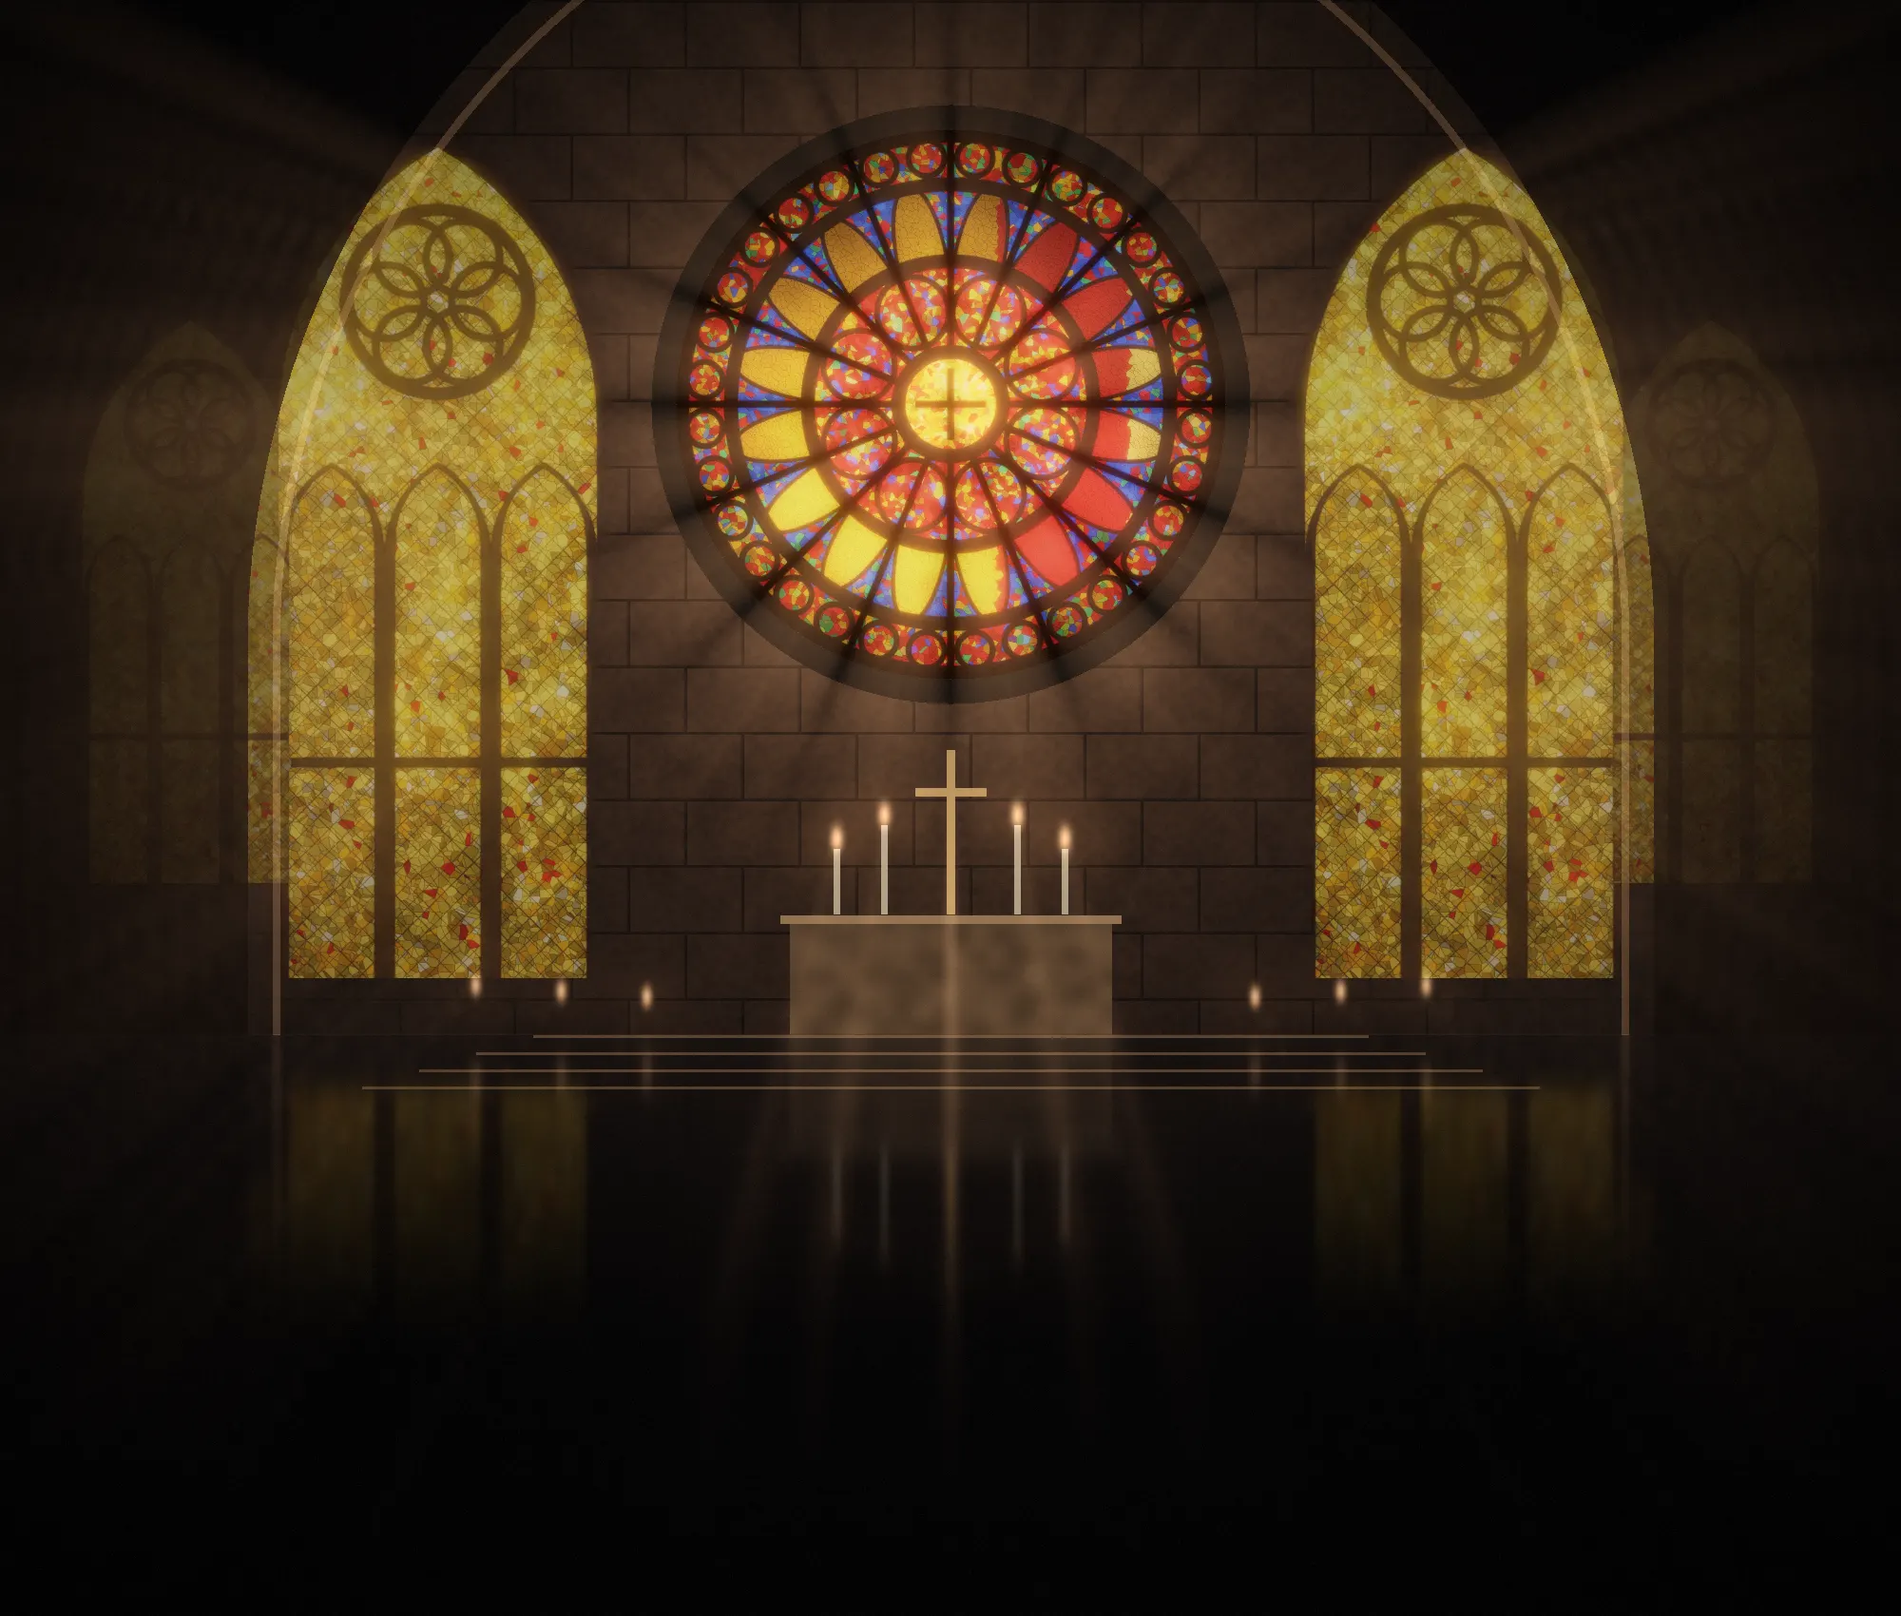
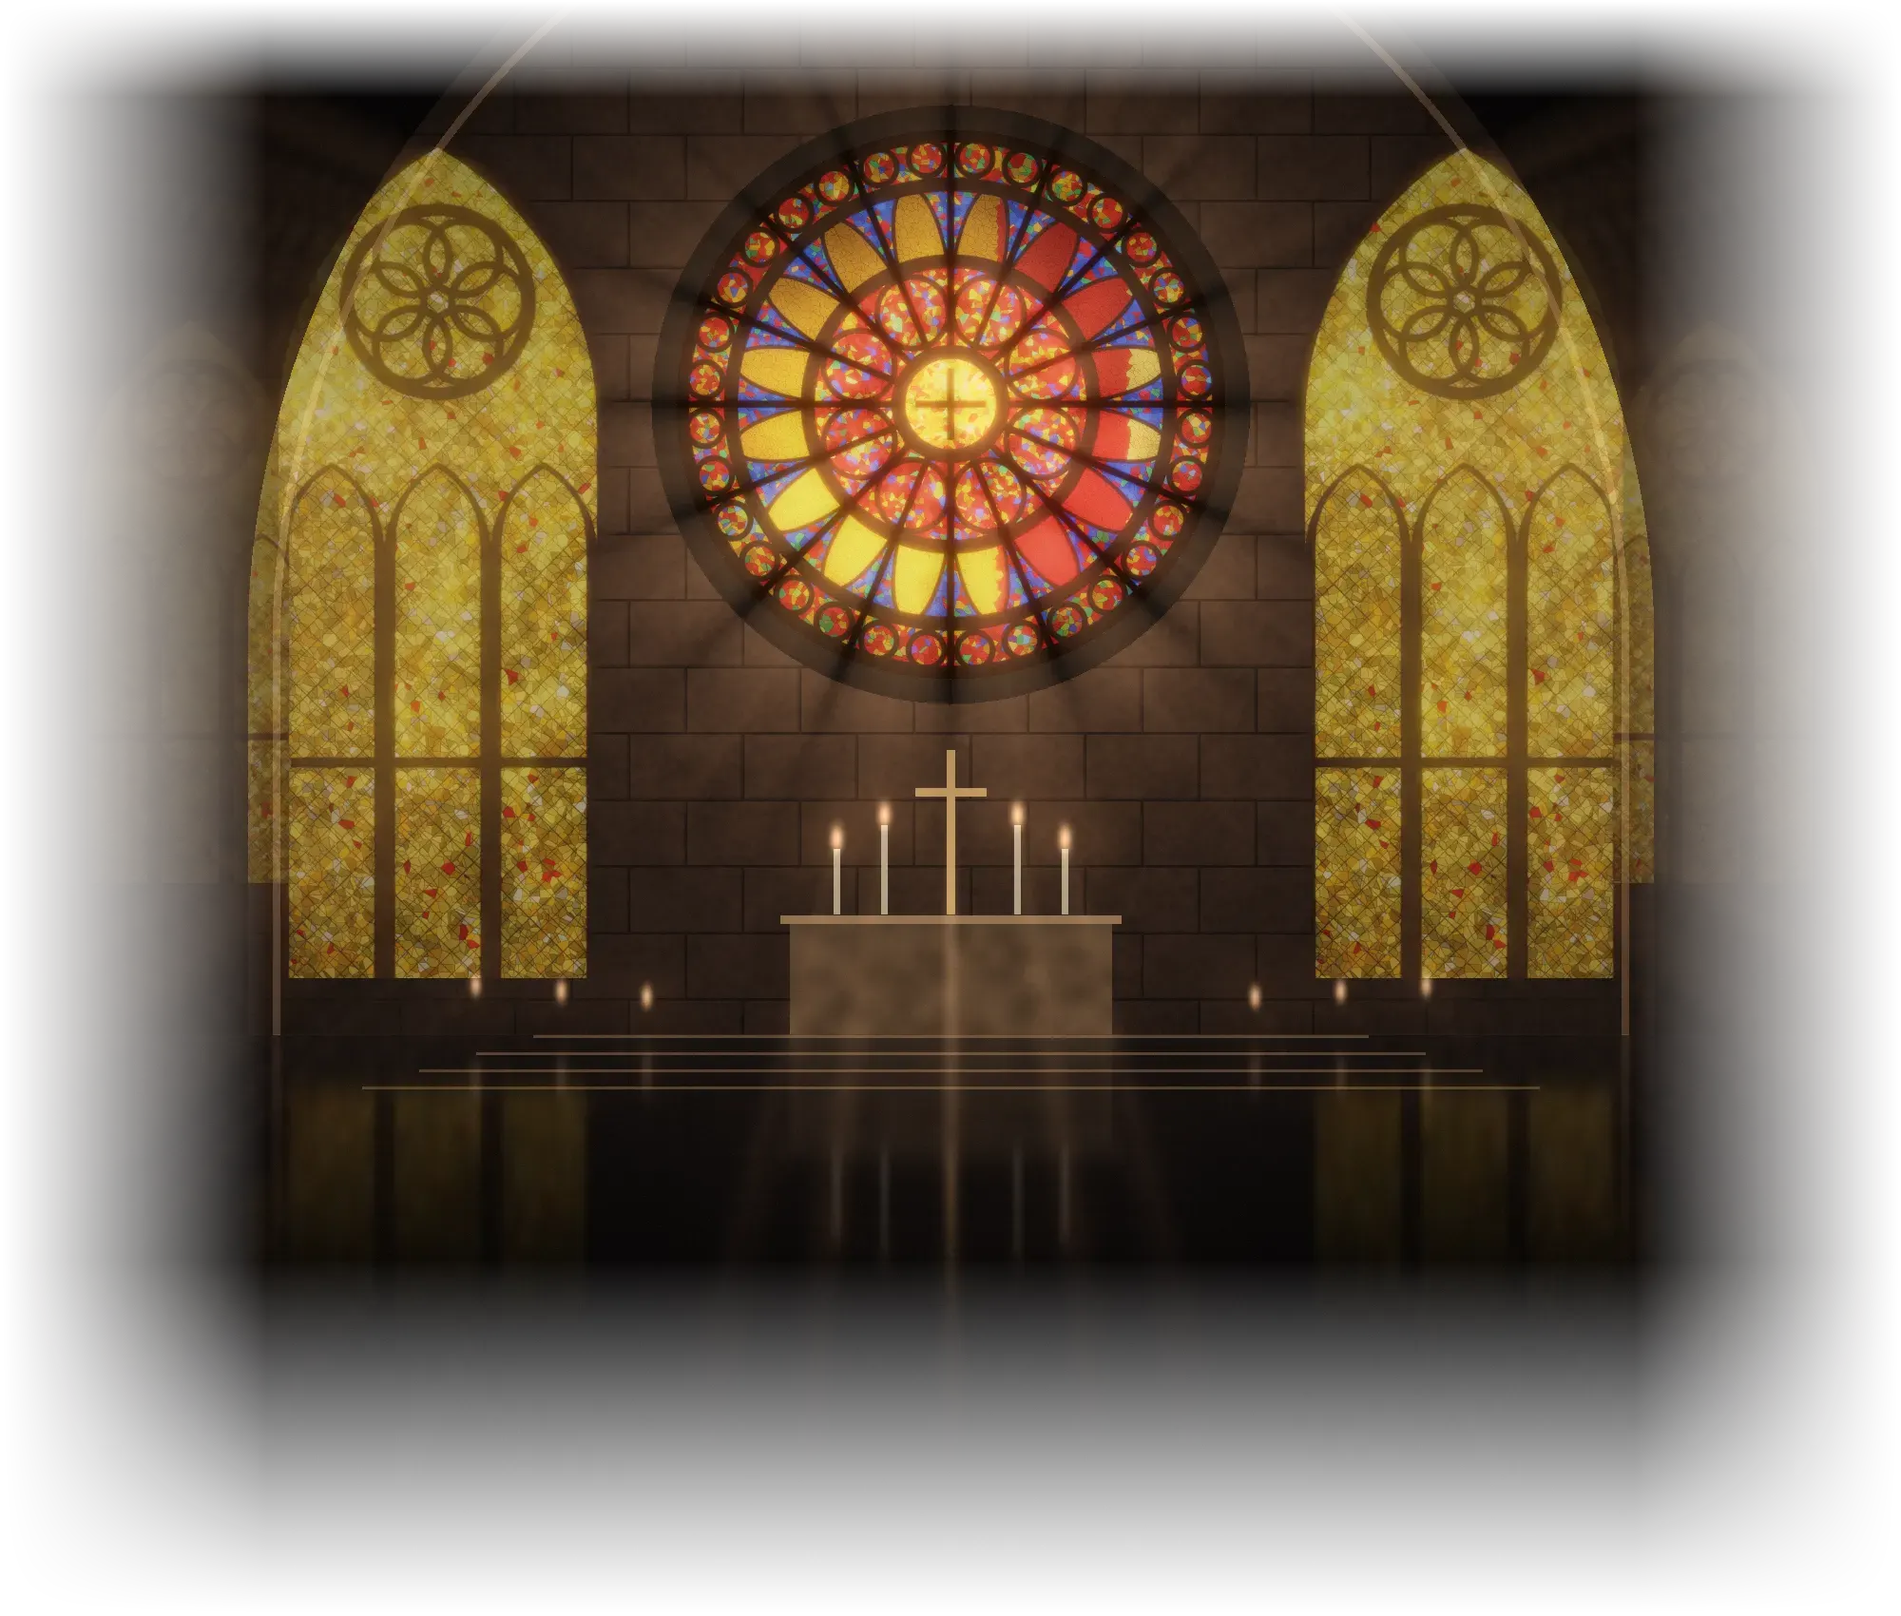
Finish the walk down the aisle with the couple silhouettes
- Bride and groom from the supplied Freepik vector: recoloured, rim-lit,
  split into two layers sharing one frame so they slide together into
  the original hand-in-hand pose by ~85% of the page
- Fix mirrored left pillars, feather the far wall into the darkness,
  fix light-shaft seam (img max-width), soften beams
- Closing words sit on the dark floor below the couple
- GPU-only scaling for nave layers (no per-frame layout); reduced
  motion shows the nave as a still scene
- Footer credits for Vecteezy and Freepik

Claude-Session: https://claude.ai/code/session_01Deedg315oCk1pJyYSqAAs3

diff --git a/assets/js/main.js b/assets/js/main.js
@@ -243,7 +243,7 @@
   //   couple   : stand in front of the altar, start apart, meet near the end
   //   apse     : the far wall (rose window + altar), a flat backdrop
   var nave = null;
-  var NAVE = { pairs: 7, spacing: 3.2, aisle: 2.1, eye: 1.6, pillarW: .62, coupleZ: 25.5, apseZ: 28, apseW: 13, walkTo: 20.5, coupleH: 1.72 };
+  var NAVE = { pairs: 7, spacing: 3.2, aisle: 2.1, eye: 1.6, pillarW: .62, coupleZ: 25.5, apseZ: 28, apseW: 13, walkTo: 20.5, coupleH: 1.78 };
   function initNave() {
     var el = doc.querySelector(".nave");
     if (!el) return;
@@ -255,6 +255,7 @@
         var img = el.ownerDocument.createElement("img");
         img.src = pillarSrc; img.alt = ""; img.decoding = "async";
         img.className = "pillar" + (side < 0 ? " pillar--l" : "");
+        img.setAttribute("data-base", "160");
         wrap.appendChild(img);
         pillars.push({ el: img, z: NAVE.spacing * (i + 1), x: side * NAVE.aisle });
       });
@@ -284,41 +285,47 @@
     var cx = vw / 2, hz = vh * .42;                         // vanishing point
     var ease = t * t * (3 - 2 * t);
     var camZ = NAVE.walkTo * (t * .7 + ease * .3);
-    function place(node, x, z, wM, hM, anchor) {           // anchor: fraction of height that sits on the floor
+    function place(node, x, z, wM, hM, anchor, mirror) {   // anchor: fraction of height that sits on the floor
       var dz = z - camZ;
       if (dz < .45) { node.style.visibility = "hidden"; return; }
       var s = k / dz;
       var w = wM * s, h = hM * s;
       var sx = cx + x * s - w / 2, sy = hz + NAVE.eye * s - h * anchor;
       node.style.visibility = "visible";
-      node.style.width = w.toFixed(1) + "px";
-      node.style.transform = "translate3d(" + sx.toFixed(1) + "px," + sy.toFixed(1) + "px,0)";
+      // size is set once (BASE px wide); per frame only a GPU transform changes
+      var base = node._base || (node._base = parseFloat(node.getAttribute("data-base")) || 200);
+      if (!node._sized) { node.style.width = base + "px"; node._sized = true; }
+      var sc = w / base;
+      node.style.transform = mirror
+        ? "translate3d(" + (sx + w).toFixed(1) + "px," + sy.toFixed(1) + "px,0) scale(" + (-sc).toFixed(4) + "," + sc.toFixed(4) + ")"
+        : "translate3d(" + sx.toFixed(1) + "px," + sy.toFixed(1) + "px,0) scale(" + sc.toFixed(4) + ")";
       node.style.opacity = Math.min(1, (dz - .45) / 1.2).toFixed(3);
       return dz;
     }
     nave.pillars.forEach(function (p) {
-      var dz = place(p.el, p.x, p.z, NAVE.pillarW, NAVE.pillarW * 6.19, 1);
+      var dz = place(p.el, p.x, p.z, NAVE.pillarW, NAVE.pillarW * 6.19, 1, p.x < 0);
       if (dz) p.el.style.zIndex = String(1000 - Math.round(dz * 10));
     });
     // far wall: the image's floor line sits at 64 % of its height
     place(nave.apse, 0, NAVE.apseZ, NAVE.apseW, NAVE.apseW * .85, .64);
     nave.apse.style.opacity = "1";
-    // couple: apart → together (meet at ~85 % of the page)
+    // couple: both images share one frame (the original hand-in-hand pose);
+    // they start apart and slide together, meeting at ~85 % of the page
     var m = Math.min(1, t / .85), meet = m * m * (3 - 2 * m);
-    var gap = 1.5 * (1 - meet);
-    var H = NAVE.coupleH;
-    place(nave.groom, -(.27 + gap / 2), NAVE.coupleZ, H * 220 / 560, H, 1);
-    place(nave.bride, (.36 + gap / 2), NAVE.coupleZ, H * 300 / 560, H, 1);
+    var gap = 1.3 * (1 - meet);
+    var H = NAVE.coupleH, Wc = H * 396 / 442;
+    place(nave.bride, -gap / 2, NAVE.coupleZ, Wc, H, 1);
+    place(nave.groom, gap / 2, NAVE.coupleZ, Wc, H, 1);
     nave.groom.style.opacity = nave.bride.style.opacity = "1";
     // carpet: from the camera to the altar steps
     nave.el.style.setProperty("--carpet-top", (hz + NAVE.eye * k / (NAVE.coupleZ + .8 - camZ)).toFixed(1) + "px");
     nave.el.style.setProperty("--hz", hz.toFixed(1) + "px");
     // light shafts breathe as you pass each window bay
-    nave.shafts.style.opacity = (.45 + .25 * Math.sin(camZ / NAVE.spacing * Math.PI)).toFixed(3);
+    nave.shafts.style.opacity = (.26 + .12 * Math.sin(camZ / NAVE.spacing * Math.PI)).toFixed(3);
     nave.shafts.style.transform = "translate3d(" + (-camZ * 6).toFixed(1) + "px,0,0) scale(1.15)";
     // entering from the bright film: fade the nave in over the first screen
     var heroH = nave.hero ? nave.hero.offsetHeight : vh;
-    nave.el.style.opacity = Math.min(1, Math.max(0, window.scrollY / (heroH * .7))).toFixed(3);
+    nave.el.style.opacity = reduceMotion.matches ? "1" : Math.min(1, Math.max(0, window.scrollY / (heroH * .7))).toFixed(3);
   }
 
   /* --------------------------------------------------- hero video */

diff --git a/assets/css/styles.css b/assets/css/styles.css
@@ -89,7 +89,7 @@ button { font: inherit; color: inherit; cursor: pointer; }
 [hidden] { display: none !important; }
 em { font-style: italic; }
 
-main { position: relative; z-index: 1; padding-bottom: 20svh; }
+main { position: relative; z-index: 1; }
 section { position: relative; color: var(--fg); }
 /* every information block is a dark glass panel floating in the nave, with
    a full screen of church between panels so the walk is always visible */
@@ -194,8 +194,7 @@ section { position: relative; color: var(--fg); }
 .nave__couple img { position: absolute; filter: drop-shadow(0 0 18px rgba(255, 200, 130, .2)); }
 .nave__pillars { inset: 0; z-index: 2; }
 .pillar { position: absolute; }
-.pillar--l { scale: -1 1; }
-.nave__shafts { inset: -10% -20%; width: 140%; height: 120%; z-index: 3; object-fit: cover; mix-blend-mode: screen; opacity: .5; }
+.nave__shafts { left: -50%; top: -10%; width: 200%; max-width: none; height: 120%; z-index: 3; object-fit: cover; mix-blend-mode: screen; opacity: .5; }
 .nave__motes { z-index: 4; }
 .nave__vignette { inset: 0; z-index: 5; background: radial-gradient(120% 90% at 50% 40%, rgba(0, 0, 0, 0) 45%, rgba(0, 0, 0, .7) 100%); }
 
@@ -393,7 +392,7 @@ section { position: relative; color: var(--fg); }
   --line-out: clamp(0, (var(--p) - .5) / .08, 1);
   --sign: clamp(0, (var(--p) - .58) / .16, 1);
 }
-.closing__text { position: absolute; left: 0; right: 0; top: 4svh; height: 40svh; text-shadow: 0 2px 20px rgba(0, 0, 0, .8); padding: 0 var(--gutter) 3svh; display: grid; place-items: center; text-align: center; z-index: 3; }
+.closing__text { position: absolute; left: 0; right: 0; bottom: 3svh; height: 38svh; text-shadow: 0 2px 20px rgba(0, 0, 0, .8); padding: 0 var(--gutter) 3svh; display: grid; place-items: center; text-align: center; z-index: 3; }
 .closing__line {
   grid-area: 1 / 1; max-width: 24rem;
   font-weight: 300; font-style: italic; font-size: clamp(1.8rem, 1.2rem + 3.6vw, 3.2rem); line-height: 1.22; text-shadow: var(--glow);
@@ -441,6 +440,7 @@ section { position: relative; color: var(--fg); }
   .wedding__cards { grid-template-columns: 1fr 1fr; column-gap: 1.6rem; }
   .locations__cards { grid-template-columns: 1fr 1fr; }
   .closing__line { max-width: 36rem; }
+  .closing__text { height: 30svh; bottom: 2svh; }
 }
 
 /* ================================================ Reduced motion */

diff --git a/config.js b/config.js
@@ -125,11 +125,12 @@ window.WEDDING = {
     apse:   "assets/images/nave/apse.webp",     // far end: rose window, altar, candles
     pillar: "assets/images/nave/pillar.webp",   // stone column (transparent), repeated down the aisle
     shafts: "assets/images/nave/shafts.webp",   // light beams from the high windows (screen-blended)
-    groom:  "assets/images/nave/groom.svg",     // silhouettes at the altar — they move together as you scroll
+    groom:  "assets/images/nave/groom.svg",     // silhouettes at the altar (same frame) — they slide together as you scroll
     bride:  "assets/images/nave/bride.svg",
-    // Credit line shown at the very bottom of the page. The opening film is from
-    // Vecteezy; its free licence requires attribution, e.g. "Video: Vecteezy".
-    credits: "",
+    // Credit line shown at the very bottom of the page. Free licences of the
+    // opening film (Vecteezy) and the couple silhouette (Freepik) require
+    // attribution. Remove a credit only if you hold a premium licence for it.
+    credits: "Opening film: Vecteezy · Couple silhouette: Freepik",
   },
 
   /* ------------------------------------------------------------- ANIMATIONS */

diff --git a/index.html b/index.html
@@ -131,10 +131,10 @@
 <div class="nave" aria-hidden="true">
   <div class="nave__floor"></div>
   <div class="nave__carpet"></div>
-  <img class="nave__apse" data-art="apse" alt="">
+  <img class="nave__apse" data-art="apse" data-base="1400" alt="">
   <div class="nave__couple">
-    <img class="nave__groom" data-art="groom" alt="">
-    <img class="nave__bride" data-art="bride" alt="">
+    <img class="nave__groom" data-art="groom" data-base="400" alt="">
+    <img class="nave__bride" data-art="bride" data-base="400" alt="">
   </div>
   <div class="nave__pillars"></div>
   <img class="nave__shafts" data-art="shafts" alt="">

diff --git a/README.md b/README.md
@@ -10,8 +10,8 @@ assets/
   js/main.js            content binding, scroll engine, countdown, lightbox, music
   js/rsvp.js            RSVP validation + swappable delivery providers (isolated)
   images/
-    glass/              rendered stained glass + rose backgrounds
-    illustrations/      wedding car
+    nave/               church interior layers + couple silhouettes
+    glass/              stained-glass source renders (not loaded by the page)
   video/                opening film (MP4 + WebM, portrait and landscape)
     og-image.jpg        WhatsApp / social preview (1200×630)
   icons/favicon.svg
@@ -33,24 +33,30 @@ Open **`config.js`**. It holds the names, dates, times, venues, addresses, map l
 
 **The one exception is the link preview.** WhatsApp and iMessage read the `<meta property="og:…">` tags at the top of `index.html` without running JavaScript, so edit those by hand. After deploying, change `og:image` to the full URL, for example `https://YOUR-USERNAME.github.io/YOUR-REPO/assets/images/og-image.jpg`. Otherwise many apps won't show the image.
 
-## 2. Film, stained glass and artwork
+## 2. The walk down the aisle
 
-| What | Files | Notes |
+After the opening film, a church interior sits **fixed behind the whole page**. As guests scroll, a perspective camera walks down the aisle. Stone pillars pass on both sides and light falls through high windows. At the far end, under the rose window, the bride and groom silhouettes start apart and slide together until they stand hand in hand. Every section floats over the church on a dark glass panel, with a screen of church between panels.
+
+| Layer | File | Notes |
 |---|---|---|
-| Opening film (statue against the sky) | `assets/video/hero-*.mp4` and `.webm`, plus posters | made from the Vecteezy clip you supplied: trimmed, colour-graded, with portrait and landscape cuts, about 0.5 MB each |
-| Rose window behind the Bible verse | `assets/images/glass/rose-window.webp` | rendered for this site |
-| Gothic windows for the invitation and closing | `assets/images/glass/windows-*.webp` | rendered for this site |
-| Blurred roses for "Save the Date" | `assets/images/glass/roses-*.webp` | rendered for this site |
-| Wedding car | `assets/images/illustrations/wedding-car.webp` | cut out of the stock card you supplied |
+| Opening film | `assets/video/hero-*.mp4` / `.webm` + posters | from the Vecteezy clip you supplied |
+| Far wall (rose window, lancets, altar, candles) | `assets/images/nave/apse.webp` | rendered for this site |
+| Stone pillar (repeated, mirrored on the left) | `assets/images/nave/pillar.webp` | rendered for this site |
+| Light shafts | `assets/images/nave/shafts.webp` | rendered for this site; screen-blended |
+| Bride / groom silhouettes | `assets/images/nave/bride.svg`, `groom.svg` | from the Freepik file you supplied, recoloured and split into two layers that share one frame |
+| Dust in the light | `assets/lottie/light-motes.json` | original Lottie |
 
-All the paths are set in `config.js → video` and `config.js → art`.
+**Tuning the walk.** In `assets/js/main.js`, the `NAVE` settings control the scene:
+- number of pillar pairs and their spacing;
+- aisle width and eye height;
+- where the couple stand (`coupleZ`);
+- how far the camera walks (`walkTo`).
 
-**Licences to check before going live:**
-- **Vecteezy clip.** The free licence requires a credit line, e.g. "Video by Vecteezy". Put it in `art.credits`, or buy the Pro licence.
-- **Car.** It comes from a stock template (likely Freepik), which also needs credit or a paid licence.
-- **Everything else.** The stained glass and roses were generated for this site, so they need no credit.
+The couple meet at about 85 % of the page.
 
-To use a different opening film, export H.264 MP4 (and optionally VP9 WebM) with no audio, about 10–15 seconds long and under 1 MB. Then update `config.js → video`. The video is muted and plays inline, which phones allow without a tap.
+**Credits.** The free Vecteezy and Freepik licences require attribution. The page footer shows "Opening film: Vecteezy · Couple silhouette: Freepik" (`config.js → art.credits`). Clear it only if you hold premium licences.
+
+`assets/images/glass/` holds the stained-glass renders used to build the far wall. The page doesn't load them.
 
 ## 2b. Animations (Lottie)
 
@@ -134,11 +140,11 @@ The empty `.nojekyll` file tells Pages to serve files as they are. All paths are
 - **Information sections.** Events sit in framed cards with a photograph, title, details and a location button. The countdown uses small tiles on a textured ivory paper. Then comes "Will you join us?" with an RSVP call to action.
 - **Closing.** A wide landscape scene is the final, still image.
 
-**Visual system ("sanctuary light"):**
-- **Darkness and light.** Deep candle-lit sections, with stained glass glowing out of the dark: a rose window behind the verse and gothic windows over a reflective floor.
-- **Opening.** A slow film of the statue of Christ against the sky, with soft light rays.
-- **Type.** Cinzel engraved capitals for names and titles, with a Great Vibes script word as a flourish. Cormorant Garamond for reading text, Jost for labels.
-- **Colour.** Near-black sanctuary brown, candle gold and cream. Parchment sections (engagement, timeline, RSVP) for rhythm, and a sky-blue "Save the Date".
+**Visual system ("walking down the aisle"):**
+- **One continuous space.** Every section after the opening film takes place inside the same candle-lit church. Darkness, with light from the windows, candles and stained glass.
+- **Story.** The guest walks toward the altar while the couple come together, and the final screen is the two of them hand in hand under the rose window.
+- **Type.** Cinzel engraved capitals with Great Vibes script flourishes. Cormorant Garamond for reading, Jost for labels.
+- **Colour.** Candle-lit dark, candle gold and cream throughout. No light sections, so the theme never breaks.
 
 **Performance and accessibility.**
 - All scroll motion is `transform` and `opacity`, driven by one `requestAnimationFrame` loop. That loop only measures sections currently near the viewport.
